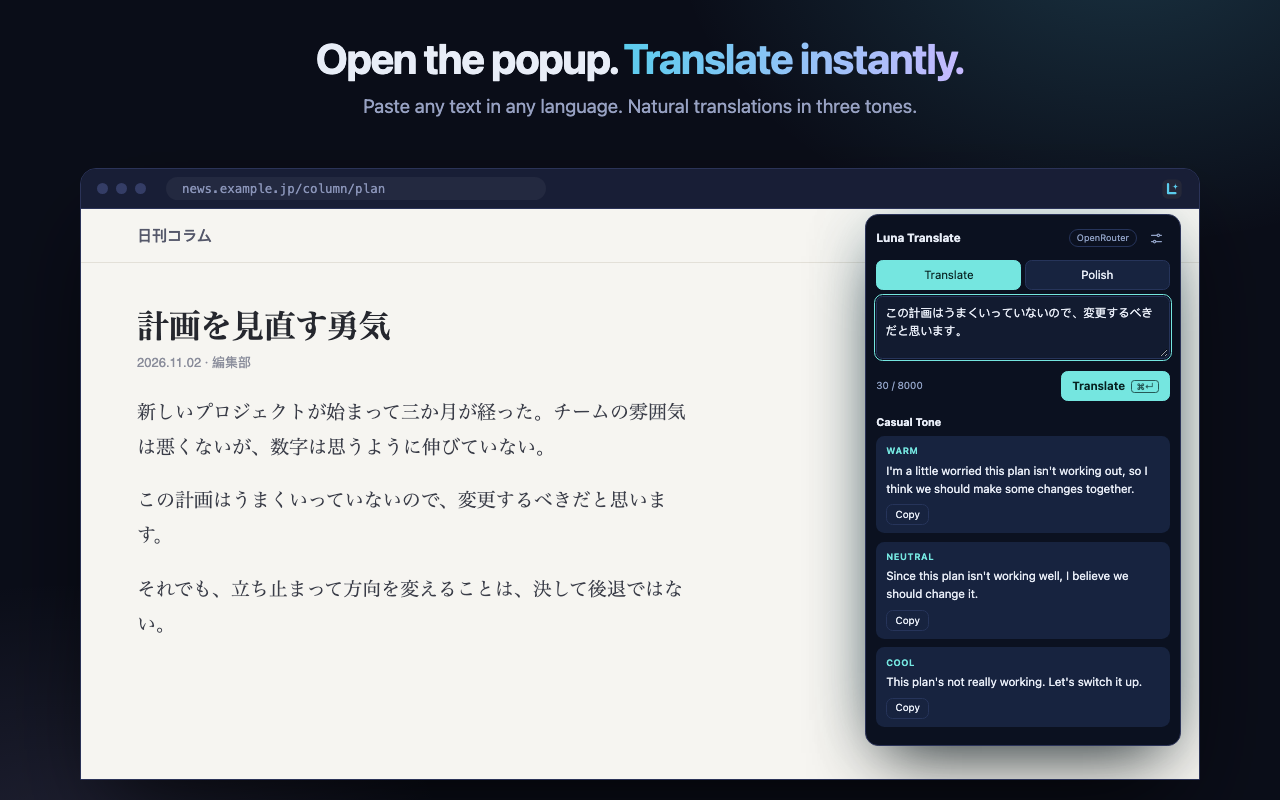
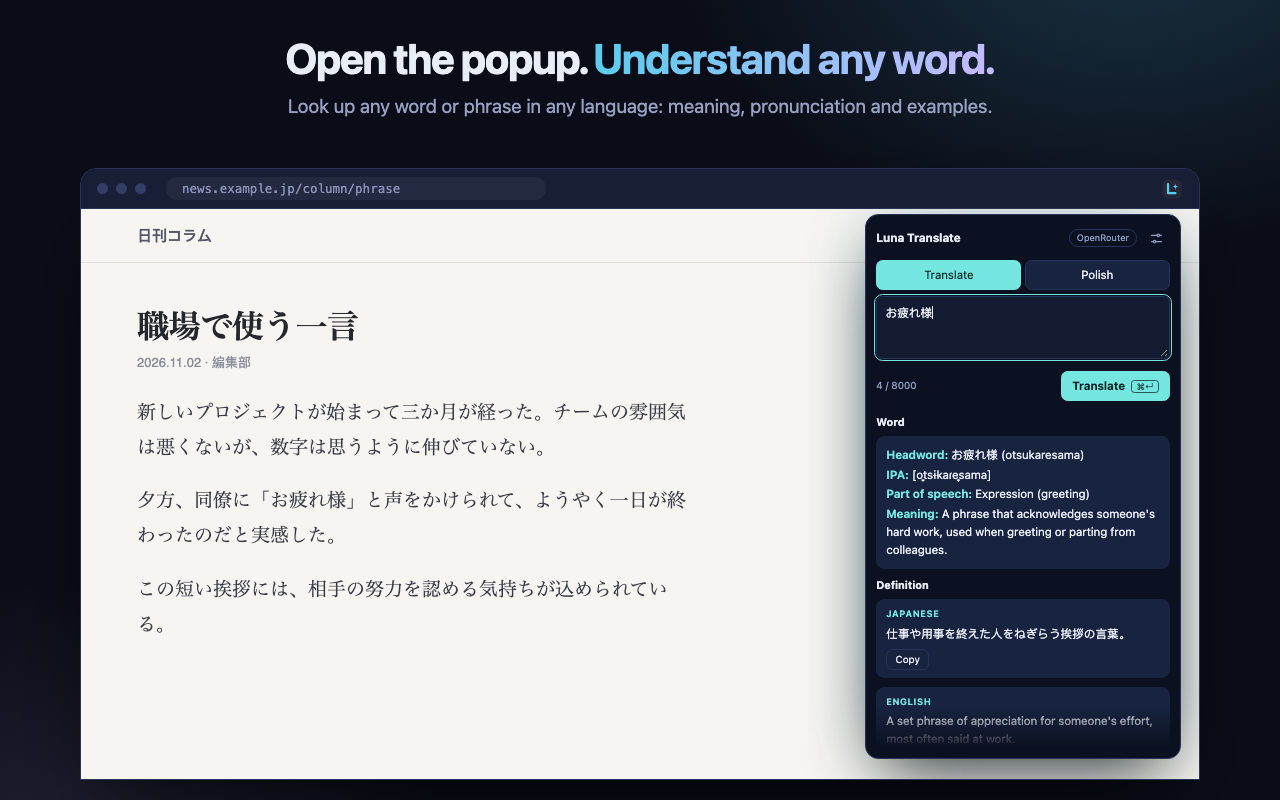
Translate prompt: dictionary-style entry written in the user's translate target
Adds {{target}}/{{other}} tokens, a richer popup renderer (bold, bullets),
and syncs the landing page, README and translate screenshots.

diff --git a/store/scenes/shot1.html b/store/scenes/shot1.html
@@ -1,16 +1,16 @@
 <!doctype html><html><head><meta charset="utf-8"><title>shot1</title>
 <link rel="stylesheet" href="/store/scenes/scene.css"><script src="/store/scenes/dark.js"></script><script>window.__css = window.loadDark("/ui.css");</script>
 <style>#mount { position: absolute; right: 22px; top: 6px; width: 380px; zoom: .83; background: var(--bg); border: 1px solid #2b3358; border-radius: 16px; box-shadow: 0 30px 80px -20px rgba(0,0,0,.85), 0 0 80px -30px rgba(90,204,237,.5); }
- #mount.popup { padding: 12px; } #mount textarea { min-height: 76px; } #mount .output { max-height: none; } body { color: var(--ink); }
+ #mount.popup { padding: 12px; } #mount textarea { min-height: 76px; } #mount .output { max-height: 410px; overflow: hidden; -webkit-mask-image: linear-gradient(#000 88%, transparent); mask-image: linear-gradient(#000 88%, transparent); } body { color: var(--ink); }
  .tb { margin-left: auto; width: 22px; height: 22px; } .web article { margin-left: 56px; }</style></head><body>
 <div class="bg"></div>
-<div class="cap"><h1><span lang="en">Open the popup. <em>Translate instantly.</em></span><span lang="zh">点开弹窗，<em>立刻翻译。</em></span></h1><p><span lang="en">Paste any text in any language. Natural translations in three tones.</span><span lang="zh">粘贴任何语言的文字，一次得到三种语气的自然译文。</span></p></div>
-<div class="win"><div class="wbar"><i></i><i></i><i></i><span>news.example.jp/column/plan</span><svg class="tb" viewBox="0 0 128 128"><rect x="8" y="8" width="112" height="112" rx="30" fill="#252839"/><path d="M41 35v53h43" fill="none" stroke="#5ACCED" stroke-width="13" stroke-linecap="round" stroke-linejoin="round"/><path d="M84 29c0 15-6 21-21 21 15 0 21 6 21 21 0-15 6-21 21-21-15 0-21-6-21-21Z" fill="#5ACCED"/></svg></div>
-<div class="stage"><div class="web"><div class="top">日刊コラム</div><article><h2>計画を見直す勇気</h2><div class="meta">2026.11.02 · 編集部</div><p>新しいプロジェクトが始まって三か月が経った。チームの雰囲気は悪くないが、数字は思うように伸びていない。</p><p>この計画はうまくいっていないので、変更するべきだと思います。</p><p>それでも、立ち止まって方向を変えることは、決して後退ではない。</p></article></div>
+<div class="cap"><h1><span lang="en">Open the popup. <em>Understand any word.</em></span><span lang="zh">点开弹窗，<em>读懂任何词。</em></span></h1><p><span lang="en">Look up any word or phrase in any language: meaning, pronunciation and examples.</span><span lang="zh">查任何语言的词和短语：释义、读音、例句一次看全。</span></p></div>
+<div class="win"><div class="wbar"><i></i><i></i><i></i><span>news.example.jp/column/phrase</span><svg class="tb" viewBox="0 0 128 128"><rect x="8" y="8" width="112" height="112" rx="30" fill="#252839"/><path d="M41 35v53h43" fill="none" stroke="#5ACCED" stroke-width="13" stroke-linecap="round" stroke-linejoin="round"/><path d="M84 29c0 15-6 21-21 21 15 0 21 6 21 21 0-15 6-21 21-21-15 0-21-6-21-21Z" fill="#5ACCED"/></svg></div>
+<div class="stage"><div class="web"><div class="top">日刊コラム</div><article><h2>職場で使う一言</h2><div class="meta">2026.11.02 · 編集部</div><p>新しいプロジェクトが始まって三か月が経った。チームの雰囲気は悪くないが、数字は思うように伸びていない。</p><p>夕方、同僚に「お疲れ様」と声をかけられて、ようやく一日が終わったのだと実感した。</p><p>この短い挨拶には、相手の努力を認める気持ちが込められている。</p></article></div>
 <div id="mount" class="popup"></div></div></div>
 <script>window.SCENE = { settings: { provider: 'openrouter', apiKeys: { openrouter: 'demo' } }, mode: 'translate',
- en: { text: "この計画はうまくいっていないので、変更するべきだと思います。", result: "### Casual Tone\n***Warm:***\n>I'm a little worried this plan isn't working out, so I think we should make some changes together.\n\n***Neutral:***\n>Since this plan isn't working well, I believe we should change it.\n\n***Cool:***\n>This plan's not really working. Let's switch it up." },
- zh: { text: "この計画はうまくいっていないので、変更するべきだと思います。", result: "### Casual Tone\n***Warm:***\n>我有点担心这个计划进展得不太顺利，我们一起调整一下吧。\n\n***Neutral:***\n>由于这个计划进展不顺，我认为应该做出调整。\n\n***Cool:***\n>这计划不太行，咱们换个方式吧。" } };</script>
+ en: { text: "お疲れ様", result: "### Word\n**Headword:** お疲れ様 (otsukaresama)\n**IPA:** [o̞tsɨkaɾe̞sama]\n**Part of speech:** Expression (greeting)\n**Meaning:** A phrase that acknowledges someone's hard work, used when greeting or parting from colleagues.\n\n### Definition\n***Japanese:***\n>仕事や用事を終えた人をねぎらう挨拶の言葉。\n\n***English:***\n>A set phrase of appreciation for someone's effort, most often said at work.\n\n### Synonyms\n- ご苦労様 — similar, but only used toward people of lower rank; お疲れ様 is safe with peers and superiors.\n\n### Antonyms\n- None commonly used\n\n### Collocations\n- お疲れ様です — hello / thank you for your hard work\n- お疲れ様でした — good work today (said when work is done)\n\n### Examples\n***Example 1:***\n>今日もお疲れ様でした。\n>Thank you for your hard work today." },
+ zh: { text: "お疲れ様", result: "### 词条\n**词头：** お疲れ様 (otsukaresama)\n**音标：** [o̞tsɨkaɾe̞sama]\n**词性：** 惯用语（寒暄语）\n**释义：** 慰劳对方辛苦的客套话，同事之间见面、告别时常用。\n\n### 释义\n***日语：***\n>仕事や用事を終えた人をねぎらう挨拶の言葉。\n\n***中文：***\n>对他人付出的努力表示慰劳的固定说法，多用于职场。\n\n### 近义词\n- ご苦労様 — 意思相近，但只能对下级使用；お疲れ様 对同级和上级都适用。\n\n### 反义词\n- 没有常用的反义词\n\n### 搭配\n- お疲れ様です — 你好 / 辛苦了\n- お疲れ様でした — 今天辛苦了（工作结束时说）\n\n### 例句\n***例句 1：***\n>今日もお疲れ様でした。\n>今天也辛苦了。" } };</script>
 <script src="/store/scenes/stub.js"></script>
 <script src="/lib/render.js"></script>
 <script type="module">

diff --git a/lib/prompts.js b/lib/prompts.js
@@ -31,12 +31,48 @@ const OUTPUT_FORMAT = `Render your answer in Markdown format as below:
     ***Cool:***
     >(version with cool and chill tone)`;
 
-// Language-agnostic: the model detects the input language itself.
-export const DEFAULT_TRANSLATE_PROMPT = `You are an excellent translator who is fluent in every language.
-Detect the language of the user's text automatically, whatever it is.
-Provide multiple alternative translations of the text into the target language given at the end of these instructions.
-Keep the meaning, names, numbers, formatting and code unchanged, and sound natural to a native speaker.
-${OUTPUT_FORMAT}`;
+// {{target}} = the language the user wants answers in (the "translate target" setting; "Automatic" = the browser language).
+// {{other}} = the language used for equivalents when the input is already in {{target}} (English, or the browser language
+// when the target was pinned to something else). buildRequest() fills both in.
+export const DEFAULT_TRANSLATE_PROMPT = `You are a precise multilingual dictionary and vocabulary teacher.
+The user will provide a word, phrase or short expression in any language. Detect its language automatically.
+Write the whole entry (field names, headings, explanations, translations) in {{target}}. Do not describe your process.
+- If the input is not in {{target}}: explain it in {{target}} and show natural usage in the input's own language.
+- If the input is already in {{target}}: give the most useful equivalent(s) in {{other}} and explain the differences when there is more than one.
+If the input is a full sentence or a paragraph rather than a word or phrase, skip the dictionary format and return only a natural, faithful translation into {{target}} (into {{other}} if it is already in {{target}}), keeping names, numbers, formatting and code unchanged.
+Return a concise, accurate dictionary entry in Markdown using this structure (translate the field names and headings into {{target}}):
+### Word
+**Headword:** (the word, or the best equivalent in {{other}} when the input is in {{target}})
+**IPA:** (American and/or British pronunciation in IPA for English, or the standard pronunciation guide for the headword's language; include both variants when useful)
+**Part of speech:** (the part of speech, in {{target}})
+**Meaning:** (the main meaning in {{target}})
+
+### Definition
+***Headword language:***
+>(a concise definition in the headword's own language)
+
+***{{target}}:***
+>(a concise definition in {{target}})
+
+### Synonyms
+- (useful synonyms with brief distinctions when helpful)
+
+### Antonyms
+- (natural antonyms; write "None commonly used" in {{target}} when there is no useful antonym)
+
+### Collocations
+- (common collocations or related phrases)
+
+### Examples
+***Example 1:***
+>(a natural example sentence in the headword's language)
+>(its translation into {{target}})
+
+***Example 2:***
+>(a natural example sentence in the headword's language)
+>(its translation into {{target}})
+
+Keep the answer practical and easy to scan. Do not invent a pronunciation, synonym, antonym, or usage that is not appropriate for the requested word.`;
 
 export const DEFAULT_POLISH_PROMPT = `You are an excellent writing teacher and editor who is fluent in every language.
 Detect the language of the user's text automatically, whatever it is.
@@ -49,18 +85,25 @@ export const MODES = {
   polish: { labelKey: 'modePolish', defaultPrompt: DEFAULT_POLISH_PROMPT },
 };
 
+/** Language the translate answer is written in, and the "other" language used for equivalents. */
+export function resolveLanguages(settings) {
+  const primary = settings.primaryLanguage || 'English';
+  const target = settings.targetLanguage && settings.targetLanguage !== 'auto' ? settings.targetLanguage : primary;
+  const other = target === primary ? (primary === 'English' ? 'Español' : 'English') : primary;
+  return { target, other };
+}
+
 export function buildRequest(mode, text, settings) {
   const spec = MODES[mode];
   if (!spec) throw new Error(`Unknown mode: ${mode}`);
   const custom = mode === 'translate' ? settings.translatePrompt : settings.polishPrompt;
   let system = (custom && custom.trim()) || spec.defaultPrompt;
   if (mode === 'translate') {
-    const target = settings.targetLanguage || 'auto';
-    const primary = settings.primaryLanguage || 'English';
-    const secondary = primary === 'English' ? 'Español' : 'English';
-    system += target === 'auto'
-      ? `\nTarget language: ${primary}. If the text is already in ${primary}, translate it into ${secondary} instead.`
-      : `\nTarget language: ${target}.`;
+    const { target, other } = resolveLanguages(settings);
+    const hadTokens = system.includes('{{target}}');
+    system = system.replaceAll('{{target}}', target).replaceAll('{{other}}', other);
+    // Custom prompts without tokens still get the target language appended.
+    if (!hadTokens) system += `\nTarget language: ${target}. If the text is already in ${target}, translate it into ${other} instead.`;
   } else if (settings.polishLanguage && settings.polishLanguage !== 'same') {
     system += `\nWrite the polished versions in ${settings.polishLanguage}.`;
   }

diff --git a/lib/render.js b/lib/render.js
@@ -1,9 +1,10 @@
 // Tiny, safe renderer for the model's reply. Builds DOM nodes with textContent only (no innerHTML).
-// Loaded as a classic script in the popup and the content script: exposes window.LunaRender.
+// Loaded as a classic script in the popup: exposes window.LunaRender.
 (() => {
   /**
-   * Splits a reply into blocks: { label, text, quoted }.
-   * Polish replies look like "***Warm:***\n>text"; translations are plain text.
+   * Splits a reply into blocks: { label, text, heading? }.
+   * "### Title" starts a heading, "***Label:***" starts a labelled block (its lines may be "> quoted"),
+   * everything else is collected into plain blocks.
    */
   function parse(reply) {
     const lines = String(reply).replace(/\r\n/g, '\n').split('\n');
@@ -14,19 +15,19 @@
       current = null;
     };
     for (const line of lines) {
-      const labelMatch = line.match(/^\s*(?:[-*]\s*)?\*{2,3}([^*]+?)\*{2,3}\s*$/);
+      const labelMatch = line.match(/^\s*(?:[-*]\s*)?\*{3}([^*]+?)\*{3}\s*$/);
       if (labelMatch) {
         flush();
-        current = { label: labelMatch[1].replace(/:\s*$/, ''), text: '', quoted: true };
+        current = { label: labelMatch[1].replace(/\s*[:：]\s*$/, ''), text: '' };
         continue;
       }
       const heading = line.match(/^\s*#{1,4}\s+(.*)$/);
       if (heading) {
         flush();
-        blocks.push({ label: '', text: heading[1].trim(), quoted: false, heading: true });
+        blocks.push({ label: '', text: heading[1].trim(), heading: true });
         continue;
       }
-      if (!current) current = { label: '', text: '', quoted: false };
+      if (!current) current = { label: '', text: '' };
       current.text += `${line.replace(/^\s*>\s?/, '')}\n`;
     }
     flush();
@@ -40,27 +41,51 @@
     return node;
   }
 
+  /** Appends `text` to `parent`, turning **bold** segments into <strong>. */
+  function inline(doc, parent, text) {
+    text.split(/\*\*(.+?)\*\*/g).forEach((part, i) => {
+      if (!part) return;
+      parent.append(i % 2 ? el(doc, 'strong', '', part) : doc.createTextNode(part));
+    });
+  }
+
+  /** Renders the lines of one block: bullets, "**Key:** value" rows and plain lines. */
+  function renderLines(doc, container, text) {
+    for (const raw of text.split('\n')) {
+      const line = raw.trimEnd();
+      if (!line.trim()) continue;
+      const bullet = line.match(/^\s*[-*•]\s+(.*)$/);
+      const row = el(doc, 'div', bullet ? 'lt-line lt-bullet' : 'lt-line');
+      inline(doc, row, bullet ? bullet[1] : line);
+      container.append(row);
+    }
+  }
+
   /**
    * Renders a reply into `container`.
-   * actions: [{ label, onClick(text) }] shown under every result block.
+   * actions: [{ label, onClick(text, button) }] shown under labelled blocks (or under the only block of a plain reply).
    */
   function render(container, reply, actions = []) {
     const doc = container.ownerDocument;
     container.replaceChildren();
-    for (const block of parse(reply)) {
+    const blocks = parse(reply);
+    const hasLabelled = blocks.some((b) => b.label);
+    for (const block of blocks) {
       if (block.heading) {
         container.append(el(doc, 'h4', 'lt-heading', block.text));
         continue;
       }
       const wrap = el(doc, 'div', 'lt-block');
       if (block.label) wrap.append(el(doc, 'div', 'lt-label', block.label));
-      wrap.append(el(doc, 'div', 'lt-text', block.text));
-      if (actions.length) {
+      const body = el(doc, 'div', 'lt-text');
+      renderLines(doc, body, block.text);
+      wrap.append(body);
+      if (actions.length && (block.label || !hasLabelled)) {
         const bar = el(doc, 'div', 'lt-actions');
         for (const action of actions) {
           const button = el(doc, 'button', 'lt-action', action.label);
           button.type = 'button';
-          button.addEventListener('click', () => action.onClick(block.text, button));
+          button.addEventListener('click', () => action.onClick(block.text.replace(/\*\*/g, ''), button));
           bar.append(button);
         }
         wrap.append(bar);

diff --git a/docs/index.html b/docs/index.html
@@ -190,8 +190,8 @@
           <span class="eyebrow"><i></i><span lang="zh">Chrome 扩展 · 自带 AI Key</span><span lang="en">Chrome extension · Bring your own AI key</span></span>
           <h1><span lang="zh">点一下，<br /><em>翻译，<br />润色。</em></span><span lang="en">One click.<br /><em>Translate. Polish. Done.</em></span></h1>
           <p class="lead">
-            <span lang="zh">点一下工具栏图标，输入或粘贴文字，立刻得到自然的译文，或三种语气的润色版本。用你已有的 OpenRouter、OpenAI、Anthropic 或 Gemini Key，不需要新的订阅。</span>
-            <span lang="en">Click the toolbar icon, type or paste your text, and get a natural translation or polished rewrites in three tones. Use the OpenRouter, OpenAI, Anthropic or Gemini key you already have — no new subscription.</span>
+            <span lang="zh">点一下工具栏图标，输入或粘贴文字，立刻得到词典式的释义和自然的译文，或三种语气的润色版本。用你已有的 OpenRouter、OpenAI、Anthropic 或 Gemini Key，不需要新的订阅。</span>
+            <span lang="en">Click the toolbar icon, type or paste your text, and get a dictionary-style entry or natural translation, or polished rewrites in three tones. Use the OpenRouter, OpenAI, Anthropic or Gemini key you already have — no new subscription.</span>
           </p>
           <div class="cta">
             <a class="btn primary store-link" href="#">
@@ -232,8 +232,8 @@
         <div class="grid">
           <article class="card span-7 reveal">
             <div class="ico"><svg viewBox="0 0 24 24" fill="none" stroke="currentColor" stroke-width="1.8" stroke-linecap="round" stroke-linejoin="round"><path d="M4 5h9M8.5 3v2M6 5c.5 3.5 3 6.5 6.5 8M12 5c-.6 3.6-3.4 6.9-7.5 8.5"/><path d="M12.5 20l4-9 4 9M14 17h5"/></svg></div>
-            <h3><span lang="zh">任何语言，即刻翻译</span><span lang="en">Translate any language instantly</span></h3>
-            <p><span lang="zh">自动识别原文语言，给出三种语气（温暖、中性、冷静）的译文。文本已经是你的浏览器语言时，自动译成英文；也可以固定一个目标语言。</span><span lang="en">The source language is detected automatically and you get three tones: warm, neutral and cool. Text already in your browser language is translated into English, or pin a fixed target language.</span></p>
+            <h3><span lang="zh">任何语言，一查就懂</span><span lang="en">Look up any language instantly</span></h3>
+            <p><span lang="zh">输入单词或短语，得到音标、词性、释义、近反义词、搭配和例句，全部用你设定的目标语言写成；输入整句整段，就得到一份自然的译文。自动识别原文语言。</span><span lang="en">Enter a word or phrase and get pronunciation, part of speech, meaning, synonyms, collocations and examples, all written in your chosen target language. Enter a sentence or paragraph and get a natural translation. The source language is detected automatically.</span></p>
             <div class="chips"><span class="chip">简体中文</span><span class="chip">English</span><span class="chip">日本語</span><span class="chip">한국어</span><span class="chip">Français</span><span class="chip">Deutsch</span><span class="chip">Español</span><span class="chip">+ 10</span></div>
           </article>
           <article class="card span-5 reveal">

diff --git a/ui.css b/ui.css
@@ -33,7 +33,11 @@ a { color: var(--accent); }
 .output { max-height: 320px; overflow: auto; }
 .lt-block { margin: 0 0 10px; padding: 10px 12px; border-radius: 10px; background: var(--panel-2); }
 .lt-label { margin-bottom: 4px; color: var(--accent); font-size: 11px; font-weight: 650; letter-spacing: .06em; text-transform: uppercase; }
-.lt-text { white-space: pre-wrap; overflow-wrap: anywhere; }
+.lt-text { overflow-wrap: anywhere; }
+.lt-line { margin: 2px 0; }
+.lt-line strong { color: var(--accent); font-weight: 650; }
+.lt-bullet { position: relative; padding-left: 14px; }
+.lt-bullet::before { content: ""; position: absolute; left: 2px; top: .66em; width: 4px; height: 4px; border-radius: 50%; background: var(--faint); }
 .lt-heading { margin: 8px 0 6px; font-size: 13px; }
 .lt-actions { display: flex; gap: 8px; margin-top: 8px; }
 .lt-action { padding: 2px 10px; font-size: 12px; }

diff --git a/options.html b/options.html
@@ -52,6 +52,7 @@
       <label class="field">
         <span data-i18n="optTranslatePrompt"></span>
         <textarea id="translatePrompt" rows="5"></textarea>
+        <small class="muted" data-i18n="optPromptTokens"></small>
       </label>
       <label class="field">
         <span data-i18n="optPolishPrompt"></span>

diff --git a/README.md b/README.md
@@ -25,10 +25,10 @@ The interface follows the browser language: English (default), 简体中文 and 
 
 The prompts are language-agnostic: the model detects the input language itself, so any language pair works.
 
-- **Translate** returns three alternative translations (Warm / Neutral / Cool). With the default "Automatic" target, the target is the browser language; text already in that language is translated into English (Spanish if the browser language is English). Pick a fixed target language in options to override.
-- **Polish** returns three improved versions in the *same language* as the input (or a language you choose).
+- **Translate** is a dictionary-style lookup. For a word or phrase it returns the headword, IPA, part of speech, meaning, definitions, synonyms, antonyms, collocations and examples, written in your *translate target* (default: the browser language; pin another language in options). If the input is already in the target language it gives equivalents in a second language (English, or the browser language when the target was pinned elsewhere). A full sentence or paragraph gets a plain, faithful translation instead of a dictionary entry.
+- **Polish** returns three improved versions (Warm / Neutral / Cool) in the *same language* as the input, or in a language you choose.
 
-Both prompts can be replaced in the options page.
+Custom prompts replace the defaults in the options page. In a custom translate prompt, `{{target}}` and `{{other}}` are replaced with the two languages; a custom prompt without `{{target}}` gets a "Target language: …" line appended.
 
 ## Providers
 
